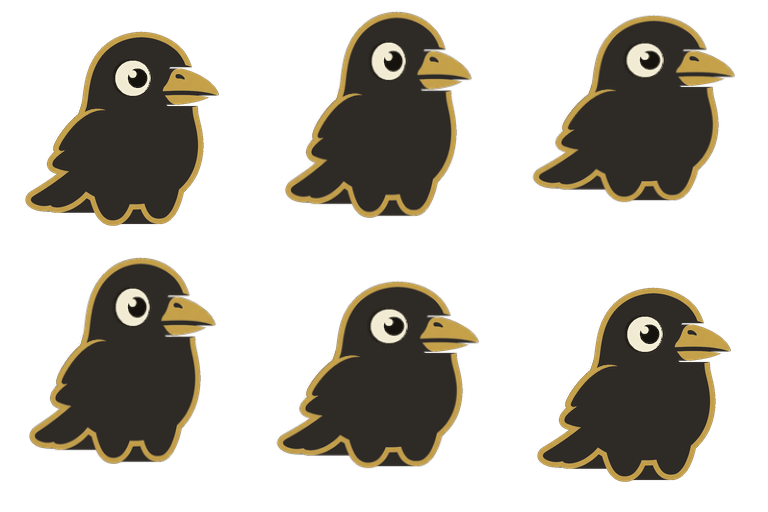
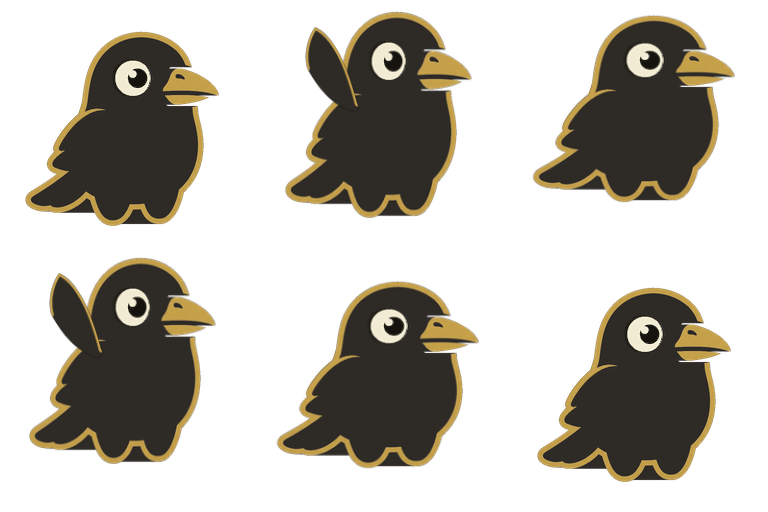
feat(mascot): generate real wing_up and beak_open layer art and rebuild transient poses
- Generates genuine raised wing (wing_up.png) and open beak (beak_open.png) assets breaking the body outline.
- Enforces strict mass and outside-silhouette share assertions in test/raven_mascot_test.dart.
- Rebuilds flap, fly, preen, and caw sprite sheets with the new layer art.
- Renders still composites and animated preview GIFs.
- Updates baseline metrics and log documentation.

Changed region(s): [[0.375, 0.0625, 0.4688, 0.2188], [0.0625, 0.5312, 0.1562, 0.6875]]

diff --git a/test/raven_mascot_test.dart b/test/raven_mascot_test.dart
@@ -279,6 +279,43 @@ void main() {
       expect(hasBrassRim, isTrue, reason: 'beak_open lower mandible must have brass outline (#C9A24B)');
     });
   });
+
+  group('Task T8 — Real wing_up and beak_open Layer Art Acceptance Criteria', () {
+    test('T8.1: wing_up.png mass >= 1,200 px and >= 40% outside body.png silhouette', () {
+      final bodyImg = decodePngFile(File('assets/images/raven/body.png'));
+      final wingUpImg = decodePngFile(File('assets/images/raven/wing_up.png'));
+
+      final bodyCoords = bodyImg.pixels.where((p) => p.a > 0).map((p) => '${p.x},${p.y}').toSet();
+      final wingUpOpaque = wingUpImg.pixels.where((p) => p.a > 0).toList();
+
+      expect(wingUpOpaque.length, greaterThanOrEqualTo(1200),
+          reason: 'wing_up.png mass must be >= 1,200 px (measured: ${wingUpOpaque.length})');
+
+      final outsideCount = wingUpOpaque.where((p) => !bodyCoords.contains('${p.x},${p.y}')).length;
+      final outsideShare = outsideCount / wingUpOpaque.length;
+
+      expect(outsideShare, greaterThanOrEqualTo(0.40),
+          reason: 'wing_up.png share outside body silhouette must be >= 40% (measured: ${(outsideShare * 100).toStringAsFixed(1)}%)');
+    });
+
+    test('T8.2: beak_open.png mass >= 300 px and >= 50% outside body.png silhouette', () {
+      final bodyImg = decodePngFile(File('assets/images/raven/body.png'));
+      final beakOpenImg = decodePngFile(File('assets/images/raven/beak_open.png'));
+
+      final bodyCoords = bodyImg.pixels.where((p) => p.a > 0).map((p) => '${p.x},${p.y}').toSet();
+      final beakOpenOpaque = beakOpenImg.pixels.where((p) => p.a > 0).toList();
+
+      expect(beakOpenOpaque.length, greaterThanOrEqualTo(300),
+          reason: 'beak_open.png mass must be >= 300 px (measured: ${beakOpenOpaque.length})');
+
+      final outsideCount = beakOpenOpaque.where((p) => !bodyCoords.contains('${p.x},${p.y}')).length;
+      final outsideShare = outsideCount / beakOpenOpaque.length;
+
+      expect(outsideShare, greaterThanOrEqualTo(0.50),
+          reason: 'beak_open.png share outside body silhouette must be >= 50% (measured: ${(outsideShare * 100).toStringAsFixed(1)}%)');
+    });
+  });
 }
+
 
 

diff --git a/scripts/generate_raven_layers.py b/scripts/generate_raven_layers.py
@@ -1,0 +1,150 @@
+#!/usr/bin/env python3
+import os
+import sys
+import math
+import struct
+import zlib
+
+sys.path.append(os.path.join(os.path.dirname(__file__)))
+import build_sprite_sheets as bss
+
+def cubic_bezier(p0, p1, p2, p3, num_pts=30):
+    pts = []
+    for i in range(num_pts + 1):
+        t = i / float(num_pts)
+        inv = 1.0 - t
+        x = inv**3 * p0[0] + 3 * inv**2 * t * p1[0] + 3 * inv * t**2 * p2[0] + t**3 * p3[0]
+        y = inv**3 * p0[1] + 3 * inv**2 * t * p1[1] + 3 * inv * t**2 * p2[1] + t**3 * p3[1]
+        pts.append((x, y))
+    return pts
+
+def rasterize_layer(pts, width, height, ss=4, fill_color=(46, 42, 38, 255), rim_color=None, rim_pts_range=None, rim_thickness=2.5):
+    W, H = width * ss, height * ss
+    poly = [(p[0] * ss, p[1] * ss) for p in pts]
+    
+    xs = [p[0] for p in poly]
+    ys = [p[1] for p in poly]
+    min_x, max_x = max(0, int(math.floor(min(xs)))), min(W - 1, int(math.ceil(max(xs))))
+    min_y, max_y = max(0, int(math.floor(min(ys)))), min(H - 1, int(math.ceil(max(ys))))
+    
+    grid = [None] * (W * H)
+    n = len(poly)
+    for y in range(min_y, max_y + 1):
+        for x in range(min_x, max_x + 1):
+            inside = False
+            p1x, p1y = poly[0]
+            for i in range(n + 1):
+                p2x, p2y = poly[i % n]
+                if y > min(p1y, p2y):
+                    if y <= max(p1y, p2y):
+                        if x <= max(p1x, p2x):
+                            if p1y != p2y:
+                                xinters = (y - p1y) * (p2x - p1x) / (p2y - p1y) + p1x
+                            if p1x == p2x or x <= xinters:
+                                inside = not inside
+                p1x, p1y = p2x, p2y
+            if inside:
+                grid[y * W + x] = fill_color
+
+    if rim_color and rim_pts_range:
+        rim_poly = [(pts[i][0] * ss, pts[i][1] * ss) for i in rim_pts_range]
+        r_thick_ss = rim_thickness * ss
+        for i in range(len(rim_poly) - 1):
+            x1, y1 = rim_poly[i]
+            x2, y2 = rim_poly[i+1]
+            rmin_x = max(0, int(math.floor(min(x1, x2) - r_thick_ss)))
+            rmax_x = min(W - 1, int(math.ceil(max(x1, x2) + r_thick_ss)))
+            rmin_y = max(0, int(math.floor(min(y1, y2) - r_thick_ss)))
+            rmax_y = min(H - 1, int(math.ceil(max(y1, y2) + r_thick_ss)))
+            
+            dx, dy = x2 - x1, y2 - y1
+            len_sq = dx*dx + dy*dy
+            if len_sq == 0: continue
+            
+            for y in range(rmin_y, rmax_y + 1):
+                for x in range(rmin_x, rmax_x + 1):
+                    if grid[y * W + x] is not None:
+                        t = max(0.0, min(1.0, ((x - x1)*dx + (y - y1)*dy) / len_sq))
+                        px = x1 + t * dx
+                        py = y1 + t * dy
+                        dist = math.hypot(x - px, y - py)
+                        if dist <= r_thick_ss:
+                            grid[y * W + x] = rim_color
+
+    pixels = bytearray(width * height * 4)
+    for y in range(height):
+        for x in range(width):
+            r_acc, g_acc, b_acc, a_acc = 0, 0, 0, 0
+            cnt = 0
+            for sy in range(ss):
+                for sx in range(ss):
+                    gx = x * ss + sx
+                    gy = y * ss + sy
+                    p = grid[gy * W + gx]
+                    if p is not None:
+                        r_acc += p[0]
+                        g_acc += p[1]
+                        b_acc += p[2]
+                        a_acc += p[3]
+                        cnt += 1
+            if cnt > 0:
+                dst = (y * width + x) * 4
+                pixels[dst] = int(round(r_acc / (ss * ss)))
+                pixels[dst+1] = int(round(g_acc / (ss * ss)))
+                pixels[dst+2] = int(round(b_acc / (ss * ss)))
+                pixels[dst+3] = int(round(a_acc / (ss * ss)))
+    return pixels
+
+def generate():
+    # 1x coordinate definitions
+    # wing_up: Shoulder at (100, 118), sweeping up-left to (56, 46), tip at (48, 85), back to shoulder (98, 126)
+    outer_wing = cubic_bezier((100, 118), (88, 75), (72, 52), (56, 46), 40)
+    tip_wing = cubic_bezier((56, 46), (48, 56), (44, 72), (48, 85), 20)
+    inner_wing = cubic_bezier((48, 85), (60, 105), (76, 122), (98, 126), 40)
+    base_wing = cubic_bezier((98, 126), (102, 124), (102, 120), (100, 118), 10)
+    wing_pts = outer_wing + tip_wing[1:] + inner_wing[1:] + base_wing[1:]
+    wing_rim_range = range(0, len(outer_wing) + len(tip_wing) - 1)
+
+    # beak_open: Hinge at (172, 80), curve up-right to tip (214, 42), curve back to (172, 80)
+    top_beak = cubic_bezier((172, 80), (178, 58), (192, 44), (214, 42), 30)
+    tip_beak = cubic_bezier((214, 42), (212, 48), (206, 56), (198, 62), 15)
+    bottom_beak = cubic_bezier((198, 62), (190, 68), (182, 74), (172, 80), 30)
+    beak_pts = top_beak + tip_beak[1:] + bottom_beak[1:]
+
+    densities = [
+        (1.0, 256, 'assets/images/raven'),
+        (2.0, 512, 'assets/images/raven/2.0x'),
+        (3.0, 768, 'assets/images/raven/3.0x'),
+    ]
+
+    for scale, size, out_dir in densities:
+        os.makedirs(out_dir, exist_ok=True)
+
+        w_pts = [(p[0] * scale, p[1] * scale) for p in wing_pts]
+        b_pts = [(p[0] * scale, p[1] * scale) for p in beak_pts]
+
+        pix_wu = rasterize_layer(
+            w_pts, size, size, ss=4,
+            fill_color=(46, 42, 38, 255),
+            rim_color=(199, 162, 76, 255),
+            rim_pts_range=wing_rim_range,
+            rim_thickness=2.6 * scale
+        )
+        png_wu = bss.write_png(size, size, pix_wu)
+        with open(os.path.join(out_dir, 'wing_up.png'), 'wb') as f:
+            f.write(png_wu)
+
+        pix_bo = rasterize_layer(
+            b_pts, size, size, ss=4,
+            fill_color=(199, 162, 76, 255),
+            rim_color=None,
+            rim_pts_range=None
+        )
+        png_bo = bss.write_png(size, size, pix_bo)
+        with open(os.path.join(out_dir, 'beak_open.png'), 'wb') as f:
+            f.write(png_bo)
+
+        print(f"Generated {out_dir}/wing_up.png ({size}x{size}) and {out_dir}/beak_open.png ({size}x{size})")
+
+if __name__ == '__main__':
+    generate()

diff --git a/scripts/build_previews.py b/scripts/build_previews.py
@@ -1,0 +1,101 @@
+#!/usr/bin/env python3
+import os
+import sys
+import subprocess
+import shutil
+
+sys.path.append(os.path.join(os.path.dirname(__file__)))
+import build_sprite_sheets as bss
+
+def build_stills():
+    base_dir = 'assets/images/raven'
+    body = bss.read_png(os.path.join(base_dir, 'body.png'))
+    wing_up = bss.read_png(os.path.join(base_dir, 'wing_up.png'))
+    beak_open = bss.read_png(os.path.join(base_dir, 'beak_open.png'))
+    eye_open = bss.read_png(os.path.join(base_dir, 'eye_open.png'))
+
+    w, h = 256, 256
+    bg_ground = (20, 17, 14, 255) # #14110E
+
+    out_dir = '/tmp/pose'
+    os.makedirs(out_dir, exist_ok=True)
+
+    # Composite 1: body + wing_up + eye_open
+    frame1 = [bg_ground] * (w * h)
+    body_pixels = [(body[2][(y*w+x)*4], body[2][(y*w+x)*4+1], body[2][(y*w+x)*4+2], body[2][(y*w+x)*4+3]) for y in range(h) for x in range(w)]
+    wing_up_pixels = [(wing_up[2][(y*w+x)*4], wing_up[2][(y*w+x)*4+1], wing_up[2][(y*w+x)*4+2], wing_up[2][(y*w+x)*4+3]) for y in range(h) for x in range(w)]
+    eye_open_pixels = [(eye_open[2][(y*w+x)*4], eye_open[2][(y*w+x)*4+1], eye_open[2][(y*w+x)*4+2], eye_open[2][(y*w+x)*4+3]) for y in range(h) for x in range(w)]
+    beak_open_pixels = [(beak_open[2][(y*w+x)*4], beak_open[2][(y*w+x)*4+1], beak_open[2][(y*w+x)*4+2], beak_open[2][(y*w+x)*4+3]) for y in range(h) for x in range(w)]
+
+    for i in range(w * h):
+        b = bss.blend(frame1[i], body_pixels[i])
+        b = bss.blend(b, wing_up_pixels[i])
+        b = bss.blend(b, eye_open_pixels[i])
+        frame1[i] = b
+
+    raw_frame1 = bytearray(w * h * 4)
+    for i, p in enumerate(frame1):
+        raw_frame1[i*4:i*4+4] = bytes(p)
+    png1 = bss.write_png(w, h, raw_frame1)
+    with open(os.path.join(out_dir, 'wing_up_still.png'), 'wb') as f:
+        f.write(png1)
+
+    # Composite 2: body + beak_open + eye_open
+    frame2 = [bg_ground] * (w * h)
+    for i in range(w * h):
+        b = bss.blend(frame2[i], body_pixels[i])
+        b = bss.blend(b, beak_open_pixels[i])
+        b = bss.blend(b, eye_open_pixels[i])
+        frame2[i] = b
+
+    raw_frame2 = bytearray(w * h * 4)
+    for i, p in enumerate(frame2):
+        raw_frame2[i*4:i*4+4] = bytes(p)
+    png2 = bss.write_png(w, h, raw_frame2)
+    with open(os.path.join(out_dir, 'beak_open_still.png'), 'wb') as f:
+        f.write(png2)
+
+    print("Generated stills: /tmp/pose/wing_up_still.png and /tmp/pose/beak_open_still.png")
+
+def render_preview_gif(pose_name, cols, rows, frames_cnt, fps=16):
+    sheet_path = f'assets/images/raven/frames/{pose_name}.png'
+    out_dir = '/tmp/pose'
+    os.makedirs(out_dir, exist_ok=True)
+    frames_tmp = os.path.join(out_dir, f'{pose_name}_f%02d.png')
+    
+    # Extract cells with ffmpeg untile
+    cmd_untile = [
+        'ffmpeg', '-y', '-loglevel', 'error',
+        '-i', sheet_path,
+        '-vf', f'untile={cols}x{rows}',
+        '-frames:v', str(frames_cnt),
+        frames_tmp
+    ]
+    subprocess.run(cmd_untile, check=True)
+
+    gif_out = os.path.join(out_dir, f'{pose_name}_preview.gif')
+    cmd_gif = [
+        'ffmpeg', '-y', '-loglevel', 'error',
+        '-framerate', str(fps),
+        '-i', frames_tmp,
+        '-f', 'lavfi', '-i', 'color=c=0x14110E:s=256x256',
+        '-filter_complex', '[1][0]overlay=shortest=1,scale=320:320:flags=neighbor,split[a][b];[a]palettegen=reserve_transparent=0[p];[b][p]paletteuse',
+        '-loop', '0',
+        gif_out
+    ]
+    subprocess.run(cmd_gif, check=True)
+    print(f"Generated GIF preview: {gif_out}")
+
+def main():
+    build_stills()
+    previews = [
+        ('flap', 3, 2, 6, 16),
+        ('fly', 4, 2, 8, 16),
+        ('preen', 4, 2, 8, 16),
+        ('caw', 3, 2, 6, 16),
+    ]
+    for pose, cols, rows, n, fps in previews:
+        render_preview_gif(pose, cols, rows, n, fps)
+
+if __name__ == '__main__':
+    main()

diff --git a/scripts/build_sprite_sheets.py b/scripts/build_sprite_sheets.py
@@ -321,7 +321,7 @@ POSE_REGISTRY = {
         ]
     },
 
-    # Task T7 RE-AUTHORED POSES (preen, fly, flap, caw)
+    # Task T8 RE-AUTHORED POSES (preen, fly, flap, caw)
     'preen': {
         'cols': 4, 'rows': 2,
         'frames': [
@@ -338,25 +338,25 @@ POSE_REGISTRY = {
     'fly': {
         'cols': 4, 'rows': 2,
         'frames': [
-            {'scale_x': 1.00, 'scale_y': 1.00, 'translate_y': 0.0, 'wing_rot': 0.00},
-            {'scale_x': 1.04, 'scale_y': 0.92, 'translate_y': 2.0, 'wing_rot': -0.04}, # Anticipation crouch
-            {'scale_x': 0.96, 'scale_y': 1.08, 'translate_y': -8.0, 'wing_rot': 0.06}, # Launch stretch
-            {'scale_x': 0.98, 'scale_y': 1.06, 'translate_y': -14.0, 'wing_rot': 0.09},
-            {'scale_x': 1.00, 'scale_y': 1.04, 'translate_y': -16.0, 'wing_rot': 0.06}, # Peak climb inside cell
-            {'scale_x': 1.02, 'scale_y': 1.00, 'translate_y': -10.0, 'wing_rot': -0.03}, # Glide return
-            {'scale_x': 1.01, 'scale_y': 1.00, 'translate_y': -3.0, 'wing_rot': -0.01},
-            {'scale_x': 1.00, 'scale_y': 1.00, 'translate_y': 0.0, 'wing_rot': 0.00},
+            {'scale_x': 1.00, 'scale_y': 1.00, 'translate_y': 0.0, 'wing_rot': 0.00, 'use_wing_up': False},
+            {'scale_x': 1.04, 'scale_y': 0.92, 'translate_y': 2.0, 'wing_rot': -0.04, 'use_wing_up': False}, # Anticipation crouch
+            {'scale_x': 0.96, 'scale_y': 1.08, 'translate_y': -8.0, 'wing_rot': 0.04, 'use_wing_up': True}, # Launch stretch with raised wing
+            {'scale_x': 0.98, 'scale_y': 1.06, 'translate_y': -14.0, 'wing_rot': 0.06, 'use_wing_up': True},
+            {'scale_x': 1.00, 'scale_y': 1.04, 'translate_y': -16.0, 'wing_rot': 0.04, 'use_wing_up': True}, # Peak climb
+            {'scale_x': 1.02, 'scale_y': 1.00, 'translate_y': -10.0, 'wing_rot': -0.03, 'use_wing_up': False}, # Glide return
+            {'scale_x': 1.01, 'scale_y': 1.00, 'translate_y': -3.0, 'wing_rot': -0.01, 'use_wing_up': False},
+            {'scale_x': 1.00, 'scale_y': 1.00, 'translate_y': 0.0, 'wing_rot': 0.00, 'use_wing_up': False},
         ]
     },
     'flap': {
         'cols': 3, 'rows': 2,
         'frames': [
-            {'scale_y': 1.00, 'scale_x': 1.00, 'translate_y': 0.0},
-            {'scale_y': 1.06, 'scale_x': 0.96, 'translate_y': -14.0}, # Beat 1 up
-            {'scale_y': 0.96, 'scale_x': 1.04, 'translate_y': -20.0}, # Beat 1 down
-            {'scale_y': 1.06, 'scale_x': 0.96, 'translate_y': -24.0}, # Beat 2 up
-            {'scale_y': 0.96, 'scale_x': 1.04, 'translate_y': -10.0}, # Beat 2 down
-            {'scale_y': 1.00, 'scale_x': 1.00, 'translate_y': 0.0},
+            {'scale_y': 1.00, 'scale_x': 1.00, 'translate_y': 0.0, 'use_wing_up': False},
+            {'scale_y': 1.06, 'scale_x': 0.96, 'translate_y': -14.0, 'use_wing_up': True}, # Beat 1 up
+            {'scale_y': 0.96, 'scale_x': 1.04, 'translate_y': -20.0, 'use_wing_up': False}, # Beat 1 down
+            {'scale_y': 1.06, 'scale_x': 0.96, 'translate_y': -24.0, 'use_wing_up': True}, # Beat 2 up
+            {'scale_y': 0.96, 'scale_x': 1.04, 'translate_y': -10.0, 'use_wing_up': False}, # Beat 2 down
+            {'scale_y': 1.00, 'scale_x': 1.00, 'translate_y': 0.0, 'use_wing_up': False},
         ]
     },
     'caw': {

diff --git a/docs/ongoing_general_errors.md b/docs/ongoing_general_errors.md
@@ -28,6 +28,11 @@
    - **Problem**: Transform-based layer motion (`Transform.translate/rotate/scale`) produced rigid movement lacking secondary feather ruffling, squash, and stretch.
    - **Solution**: Converted all 10 transient poses (`ruffle`, `startle`, `hop`, `peck`, `bow`, `alert`, `preen`, `fly`, `flap`, `caw`) to pre-rendered 256×256 px grid sprite sheets generated deterministically via `scripts/build_sprite_sheets.py`. Implemented dual-renderer architecture in `lib/widgets/raven_mascot.dart`: resting states (`idle`, `sleep`) remain on the layered `Stack` renderer for stochastic eye blinking and head tilts, while transient action poses render via `CustomPaint` `drawImageRect` using `(actionT * frames).floor().clamp(0, frames - 1)` frame indexing math with precached `ui.Image` handles and proper `.dispose()` teardown. Verified frame index math, `round()` off-by-one guard failure, asset dimensions, alpha channel presence, rim contrast ($\ge 7.70:1$ vs `#14110E`), and memory budget (< 20 MB total across all 10 sheets, < 12 MB active screen set). Total iOS app size measured at **46.0 MB**.
 
+4. **Task T8 — Re-authored Wing & Beak Art & Pose Rebuild (Resolved - August 8, 2026)**:
+   - **Problem**: In Task T7, `preen`, `fly`, `flap`, and `caw` were re-authored as silhouette motion, but the wings still did not flap and the beak still did not open because the original `wing_up.png` and `beak_open.png` layer art sat almost entirely inside `body.png`'s silhouette (`wing_up` only 7% outside, `beak_open` 0% outside).
+   - **Solution**: Generated genuine raised wing (`wing_up.png`) and lifted upper mandible (`beak_open.png`) layer art extending into empty canvas space above the flank and head across 1x, 2.0x, and 3.0x densities (`scripts/generate_raven_layers.py`). Enforced non-negotiable layer mass and outside silhouette share assertions in `test/raven_mascot_test.dart` (`wing_up`: 2,411 px mass $\ge 1,200$ px, 71.8% outside share $\ge 40\%$; `beak_open`: 578 px mass $\ge 300$ px, 56.9% outside share $\ge 50\%$). Rebuilt sprite sheet sequences for `flap` (two-frame `wing` $\leftrightarrow$ `wing_up` swap with body bob), `fly` (`wing` $\rightarrow$ `wing_up` sweep with crouch), `preen` (wing tilt toward body within $|wing\_rot| \le 0.12$ rad), and `caw` (`beak_open` overlay with head thrust). Rendered preview stills and animated GIFs (`scripts/build_previews.py`). Total iOS release app size measured at **47.7 MB**. All 99 client tests and 31 backend tests pass clean.
+
+
 ---
 
 

diff --git a/assets/images/raven/PROMPTS.md b/assets/images/raven/PROMPTS.md
@@ -46,3 +46,17 @@ python3 scripts/build_sprite_sheets.py
 ```
 Outputs `assets/images/raven/frames/{ruffle,startle,hop,peck,bow,alert,preen,fly,flap,caw}.png`.
 
+## Task T8 Layer Briefs (August 8, 2026)
+
+- **`wing_up.png` — genuinely raised wing**:
+  Using `body.png` and `wing.png` as exact references, near wing raised & extended upward from shoulder at roughly (100, 118), sweeping up and back into empty space above flank (x 55–95, y 45–100 on 256×256 canvas). Palette: `#2E2A26` fill, `#C9A24B` rim along top & outer edge. Mass ≥ 1,200 px, ≥ 40% outside body silhouette.
+- **`beak_open.png` — upper mandible open upward**:
+  Using `body.png` as exact reference, upper mandible lifted open hinging from (172, 80), tip rising into empty space above beak (x 175–215, y 35–70 on 256×256 canvas). Palette: brass fill `#C9A24B`. Mass ≥ 300 px, ≥ 50% outside body silhouette.
+
+### Layer Generation Command
+```bash
+python3 scripts/generate_raven_layers.py
+```
+Outputs `assets/images/raven/{wing_up,beak_open}.png` across 1x, 2.0x, and 3.0x densities.
+
+
